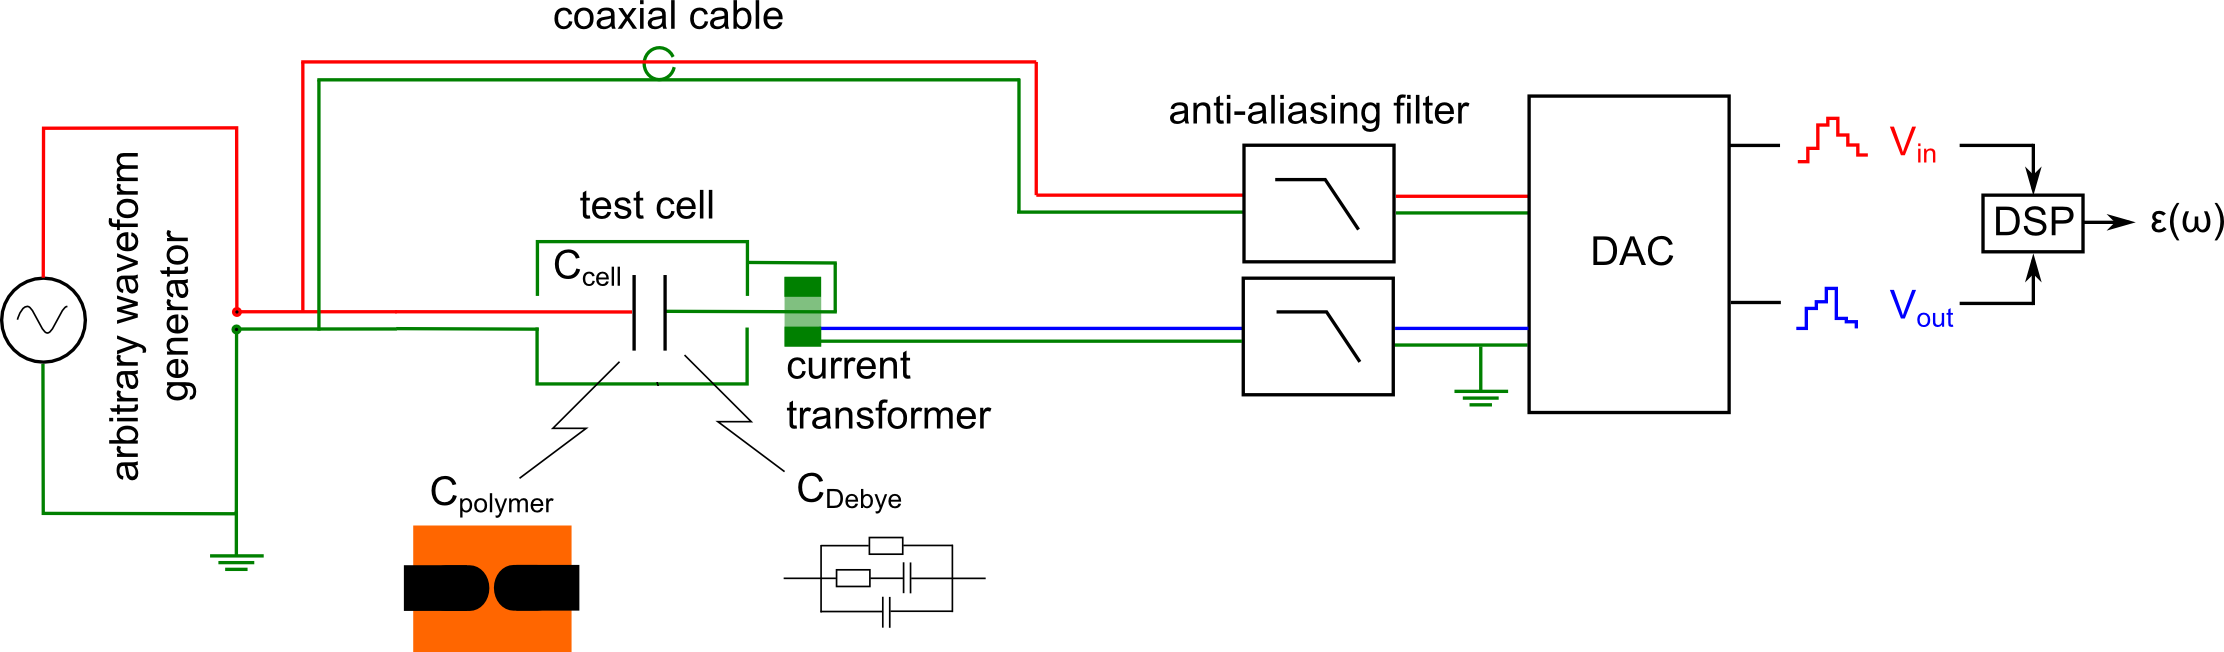
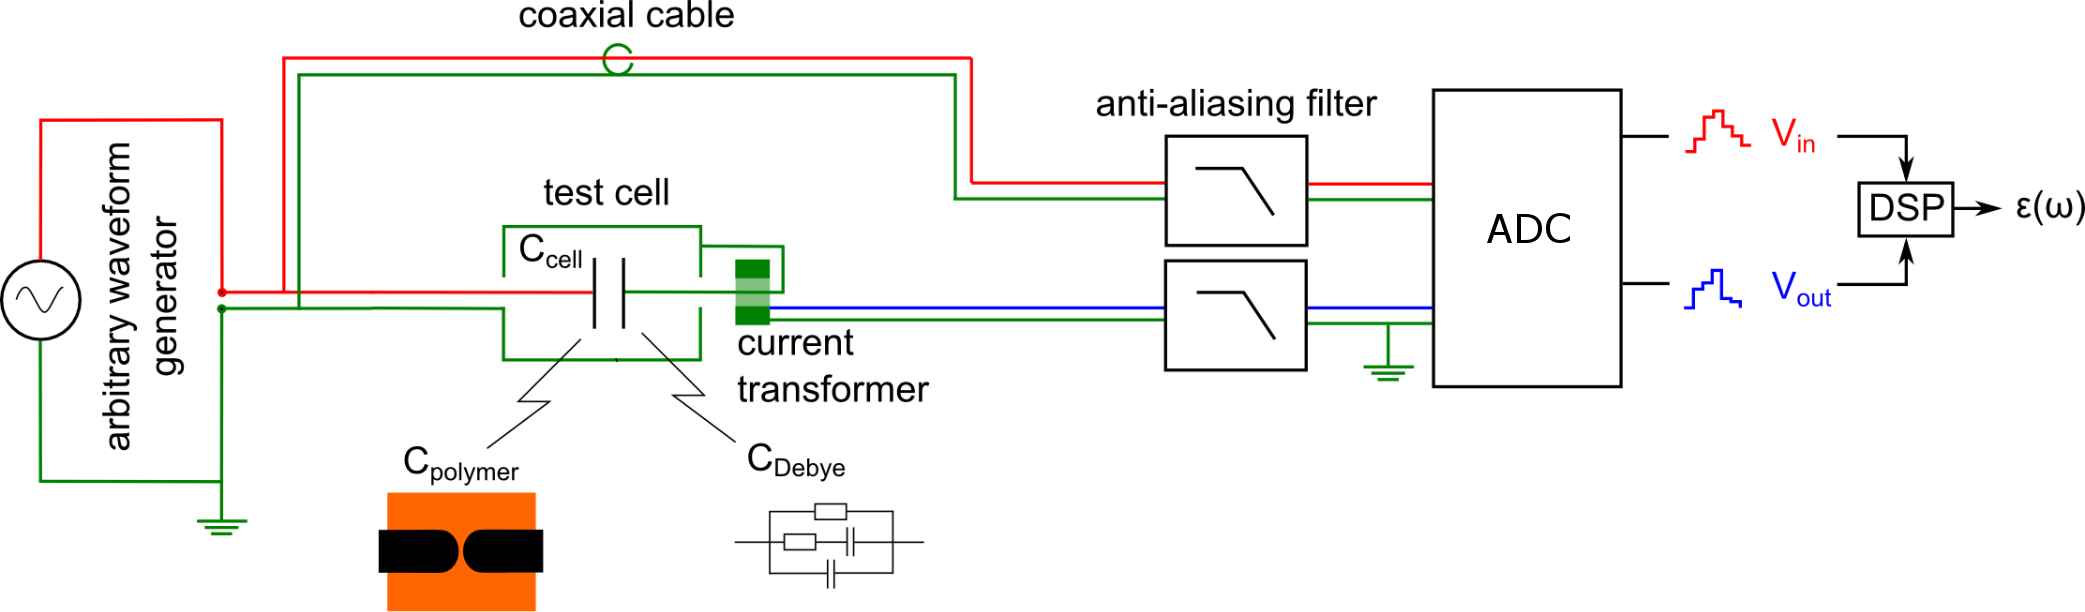
Many changes

diff --git a/Vorlage_HVL_Schriftfassung/text/methods.tex b/Vorlage_HVL_Schriftfassung/text/methods.tex
@@ -7,7 +7,7 @@ The setup is illustrated in figure \ref{sec.setup_amp_1}. A cell surrounds the  
 \begin{figure}[htbp]
 	\centering
 	\includegraphics[width=\textwidth]{figures/Method/setup/setup_amplifier.png}		
-	\caption[Kurze Abbildungsbeschreibung]{Setup for measurements with sample and DLPCA. \protect\footnotemark} 
+	\caption[Kurze Abbildungsbeschreibung]{Setup for measurements with sample and DLPCA.The setup is used to determine the capacitance of the specimen \protect\footnotemark} 
 	\label{sec.setup_amp_1}
 \end{figure}
 
@@ -30,7 +30,7 @@ re-inserted 25 individual measurements were automatically carried out amounting 
 
 \begin{figure}[h!tb]
 	\centering
-	\includegraphics[width=\textwidth]{figures/Method/Experimentaufbau/epoxy.jpg}		
+	\includegraphics[width=0.8\textwidth]{figures/Method/Experimentaufbau/epoxy.jpg}		
 	\caption[Kurze Abbildungsbeschreibung]{Sample of dielectric specimen on the holder} \label{fig.comsol_beispiel}
 
 \end{figure}
@@ -38,7 +38,7 @@ re-inserted 25 individual measurements were automatically carried out amounting 
 
 \subsection{Simulation of vacuum capacitance} 
 \label{sec.sim_vac_comsol}
-As mentioned in the chapters before the vacuum capacitance cannot the calculated directly because of the complexity of the geometry. COMSOL is a simulation software that is suitable for a numerical estimation of permittivities or capacitances. The dependency of the vacuum capacity $C_0$ on the electrode distance d has to be simulated numerically both for the high-voltage setup and for the low-voltage setup. Although all measurements and the corresponding calculations in section \ref{sec:general_approach} can be carried out in the low-voltage setup it is handy to be able to do these calculations in the high-voltage setup as well. 
+As mentioned in the chapters before the vacuum capacitance cannot the calculated directly because of the complexity of the geometry. COMSOL is a simulation software tha solves the Maxwell equations numerically and thus, is suitable for a numerical estimation of permittivities or capacitances between arbitrarily shaped electrodes. The dependency of the vacuum capacity $C_0$ on the electrode distance d has to be simulated numerically both for the high-voltage setup and for the low-voltage setup. Although all measurements and the corresponding calculations in section \ref{sec:general_approach} can be carried out in the low-voltage setup it is useful to be able to do these calculations in the high-voltage setup as well. 
 
 
 \begin{figure}[htbp]
@@ -53,7 +53,7 @@ Figure \ref{fig.comsol_beispiel} shows the simulated electrical field distributi
 \begin{figure}[htbp]
 	\centering
 	\includegraphics[scale=0.3]{figures/Method/Part1_d_C0/conic.png}		
-	\caption[Kurze Abbildungsbeschreibung]{E-Field simulation of the low-voltage test cell with conically shaped electrodes (0.5 mm electrode distance)} \label{fig.comsol_conic}
+	\caption[Kurze Abbildungsbeschreibung]{E-Field simulation of the low-voltage test cell with conically shaped electrodes (0.5 mm electrode distance) at } \label{fig.comsol_conic}
 
 \end{figure}
 
@@ -70,9 +70,9 @@ where D is the ratio of electrode distance over sphere diameter, i.e. $ D=\frac{
 \end{figure}
 
 
- There are several systematic errors that influence the vacuum capacitance simulation. The inclined line on the right-hand side shows the air gap that is caused during the production process. This air gap between the wall of the low-voltage setup and the specimen causes an additional inhomogeneity. It is unavoidable in order to be able to remove the specimen from the pouring setup. This air gap should theoretically be 0.5 mm, but in practice it is expected to vary between 0 mm and 1 mm for the worst-case. The lookup table of d based on $C_0$ is based on an air gap of 0.5 mm, therefore the deviation from this value has to be investigated numerically.
+ There are several systematic errors that influence the vacuum capacitance simulation. The inclined line on the right-hand side shows the air gap that is caused during the production process. This air gap between the wall of the low-voltage setup and the specimen causes an additional inhomogeneity. It is unavoidable in order to be able to remove the specimen from the mold. This air gap is 0.5 mm. Deviations from this value (0 mm to 1 mm) were investigated with COMSOL as well. The lookup table of d based on $C_0$ is based on an air gap of 0.5 mm, therefore the deviation from this value has to be investigated numerically.
  
-Another systematic error is the deviation of the height of the specimen. During  the pouring process the height of the specimen cannot be fixed precisely. The maximum deviation is expected to be $\pm$ 0.5 mm. This deviation might occur during the production process of each new specimen. Thus, if the electrode distance of a specimen should be estimated by the method described these deviations can result in an error. 
+A stochastic error is the deviation of the height of the specimen. During  the molding process the height of the specimen cannot be fixed precisely. The maximum deviation is expected to be $\pm$ 0.5 mm. This deviation might occur during the production process of each new specimen. Thus, if the electrode distance of a specimen should be estimated by the method described these deviations can result in an error. 
  \begin{figure}[htbp]
 	\centering
 	\includegraphics[width=\textwidth]{figures/Method/Part1_d_C0/cell_colour.png}		
@@ -82,11 +82,10 @@ Another systematic error is the deviation of the height of the specimen. During 
 
 \section{Part 2:  Suitability of current transformer for dielectric spectroscopy}
 \subsection{The setup}
-There are two general setups. One is the high-voltage setup and one the low voltage-setup. For testing the suitability of the current transformer the low voltage setup is sufficient except for the clamping test described in section \ref{clamping}. 
+There are two general setups. One is the high-voltage setup and one the low voltage-setup. For testing the suitability of the current transformer the low voltage setup is sufficient except for the clamping test described in section \ref{clamping}. There is always a reference measurement with only $C_0$. The division by a reference measurement makes sure that systematic errors in the setup, e.g. the phase shift in the current transformer, are cancelled out. 
 
-The following graph \ref{sec.setup_amplifier} illustrates the setup for measurements without a current transformer. The DLPCA-200 is a variable gain low noise current amplifier that has a transimpedance gain between $10^3$ and $10^{11} V/A$. A MATLAB script automatically adapts its gain to a value that is suitable for the input voltage range of the ADC which is $\pm 10V$. With the values of the ADC, i.e. the input voltage of the waveform generator and the output of the BW-filter, the $\varepsilon$ and the tan($\delta$) can be calculated. 
+The following figure \ref{sec.setup_amplifier} illustrates the setup for measurements without a current transformer. The DLPCA-200 is a variable gain low noise current amplifier that has a transimpedance gain between $10^3$ and $10^{11} V/A$. A MATLAB script automatically adapts its gain to a value that is suitable for the input voltage range of the ADC which is $\pm 10V$. With the values of the ADC, i.e. the input voltage of the waveform generator and the output of the BW-filter, the $\varepsilon$ and the tan($\delta$) can be calculated. 
 
-!!! Achtung noch Fehler in Graph, es ist ADC converter!!!
 \begin{figure}[htbp]
 	\centering
 	\includegraphics[width=\textwidth]{figures/Method/setup/setup_DLPCA.eps}		
@@ -102,7 +101,7 @@ Afterwards, the DLPCA is replaced with a current transformer.
 \begin{figure}[htbp]
 	\centering
 	\includegraphics[width=\textwidth]{figures/Method/setup/setup_CTonly}		
-	\caption[Kurze Abbildungsbeschreibung]{Setup for measurements with Current Transformer only \protect\footnotemark}
+	\caption[Kurze Abbildungsbeschreibung]{Setup for measurements with current transformer only \protect\footnotemark}
 	\label{sec.setup}
 
 \end{figure}
@@ -112,13 +111,13 @@ Afterwards, the DLPCA is replaced with a current transformer.
 
 In order to emulate different dielectrics with their own respective dielectric loss tangent, different combinations of circuit elements can be used.
 Each different circuit accounts for a frequency spectrum of another loss tangent with respect to frequency. With the objective to assess the performance of the current transformer, reasonably high maximal values for the $tan\left(\delta\right)$ were assumed (i.e. 0.05 to 0.2) since a lower loss tangent
-would require a higher resolution on the part of the current measurement. The vacuum capacitance was chosen to be about 1000 times larger than
+would require a higher resolution on the part of the current measurement and thus, make it more difficult to assess the performance of the current transformer. The vacuum capacitance was chosen to be about 1000 times larger than
 the the one of the specimen for the purpose of generating the same magnitude of currents as in the high-voltage setup.
 
 
 In order to get a theoretical maximum tan($\delta$) of 0.0178 the parts shown in figure \ref{fig.debye-modell} are used. 
 \begin{figure}[h!tb]
-	\centerline{\includegraphics[scale=0.7]{figures/Method/debye-modell.jpg}}	
+	\centerline{\includegraphics[width=0.5\textwidth]{figures/Method/debye-modell.jpg}}	
 	\caption{Debye model for max($tan(\delta)$)=0.0178 }	
 	\label{fig.debye-modellsch}
 \end{figure}
@@ -141,7 +140,7 @@ set to 5V. Both the rise and
 the fall time are both set to 1 $\mu s$. The voltage signal is created
 by the function generator (model Agilent 33210) in \ref{fig.presentation}
 \newline
-In order to determine the current through the debye network, the harmonic decomposition of
+In order to determine the current through the Debye network, the harmonic decomposition of
 the trapezoidal pulse train in the theory section was used. For each harmonic, the specific
 impedance of the debye network was calculated and the harmonic components for the current were found by deviding voltage component by its assigned impedance.
 
@@ -162,7 +161,7 @@ Figures \ref{fig.beforeandafter} and \ref{fig.fourierla} shows the voltage signa
 \end{figure}
 
 \begin{figure}[h!tb]
-\centerline{\includegraphics[width=0.8\textwidth]{figures/Method/signal_simulation/fourierla.eps}}
+\centerline{\includegraphics[width=\textwidth]{figures/Method/signal_simulation/fourierla.eps}}
 \caption{Fourier coefficients of both signals}
 \label{fig.fourierla}
 \end{figure}
@@ -173,18 +172,13 @@ filtered by the low-pass filter in front of the positive input of the operationa
 
 
 \begin{figure}[h!tb]
-\centerline{\includegraphics[width=0.8\textwidth]{figures/Method/signal_simulation/integrated.eps}}
+\centerline{\includegraphics[width=\textwidth]{figures/Method/signal_simulation/integrated.eps}}
 \caption{Signals before and after integrator}
 \label{fig.integrator}
 \end{figure}
 
 In order to generate these signals, a simulation in Simulink was carried out using the components of the integrator circuit in \ref{fig.circuit}
 
-\begin{figure}[h!tb]
-\centerline{\includegraphics[width=0.8\textwidth]{figures/Method/signal_simulation/simulink.eps}}
-\caption{Simulink assembly for integrator}
-\label{fig.simulink}
-\end{figure}
 
 Finally, at the end of the setup a butterworth low-pass filter of $8^{th}$ order with an adjustable cutoff frequency
 was installed. Its transfer function was applied to the FFT of the integrated voltage signal and the resulting 
@@ -192,19 +186,19 @@ signal is depicted in \ref{fig.finalvolt}
 
 
 \begin{figure}[h!tb]
-\centerline{\includegraphics[width=0.8\textwidth]{figures/Method/signal_simulation/finalvolt.eps}}
+\centerline{\includegraphics[width=\textwidth]{figures/Method/signal_simulation/finalvolt.eps}}
 \caption{Final voltage signal to be measured by ADC}
 \label{fig.finalvolt}
 \end{figure}
 
 
 \subsection{Design of a holder for the Debye Equivalent Circuit}
-For a lossy medium the Debye Network consists at least of a vacuum capacitance $C_0$ and the term for the charging of the additional capacitance. The DC resistance has a very high value and might therefore be left out, i.e. $R_{\infty}={\infty}$. Thus, it is reasonable to design a holder for the network that can hold three strands with two components each. Moreover, it has to fit into the low-voltage and high-voltage test cell, what specified the dimensions of the holder.  
+For a lossy medium the Debye Network consists at least of a vacuum capacitance $C_0$ and the term for the charging of the additional capacitance. The DC resistance has a relatively high value and might therefore be left out, i.e. $R_{\infty}={\infty}$. Thus, it is reasonable to design a holder for the network that can hold three strands with two components each. Moreover, it has to fit into the low-voltage and high-voltage test cell, what specified the dimensions of the holder.  
 Figure \ref{fig.CADgraph} shows the created holder which has a drawing that is depicted in figure \ref{fig.CADdrawing}.
 
 \begin{figure}[h!tb]
 \includegraphics[width=\textwidth]{figures/Method/CAD_MODEL/Gesamtanordnung.jpg}
-\caption{CAD graph for the holder of the debye network. Created with SolidWorks Invetor}
+\caption{CAD representation for the holder of the debye network. Created with SolidWorks Invetor}
 \label{fig.CADgraph}
 \end{figure}
 
@@ -215,7 +209,7 @@ Figure \ref{fig.CADgraph} shows the created holder which has a drawing that is d
 
 \subsection{Measuring of $\varepsilon_{\textrm{eff}}$ and tan($\delta_{\textrm{eff}}$) for the Debye model (dielectric spectroscopy)}
 \label{spectroscopy}
-The aim was to create a current through the Debye sample that is similar in shape and amplitude to the one expteced in the high-voltage setup. In order to have a comparable current for a voltage that is $\frac{1}{1000}$ of the high-voltage setup a capacitance $C_0$ for the Debye is selected 1000 times higher than the Capacitance of the samples. As the sample has a capacitance of approx. 3.5 pF its equivalent $C_0$ in the Debye model is 3.3 nF.
+The aim was to create a current through the Debye sample that is similar in shape and amplitude to the one expected in the high-voltage setup. In order to have a comparable current for a voltage that is $\frac{1}{1000}$ of the high-voltage setup a capacitance $C_0$ for the Debye is selected 1000 times higher than the Capacitance of the samples. As the sample has a capacitance of approx. 3.5 pF its equivalent $C_0$ in the Debye model is 3.3 nF.
 A number of curves for the theoretical loss tangent, as well as their marked maximum frequency can be found in \ref{fig.debye-modell}.
 
 The dielectric spectroscopy was conducted in the low-voltage setup and \ref{fig.presentation} can be used as a reference.
@@ -248,7 +242,7 @@ the dielectric component, i.e. $R_i$ and $C_i$ are removed from the sample and $
  \centering
 
  \includegraphics[width=0.5\textwidth]{figures/Method/Experimentaufbau/debyesample}
- \caption[Kurze Abbildungsbeschreibung]{Debye holder with components inserted}
+ \caption[Kurze Abbildungsbeschreibung]{Debye holder with components of Debye model inserted}
 
  
  
@@ -274,11 +268,11 @@ A second reason to make use of an integrator is due to the fact that it adds an 
 
 \subsection{Design of the integrator}
 \subsubsection{Functionality}
-The integrator should have two functions. On the hand side it should integrate the signal on the other hand it should amplify the signal by a factor of 1000. This is due to the fact that small currents ($\sim$mA) should be measured. With a CT-sensitivity of $1V/A$ an amplification of 1000 is reasonable to use the range of measurable inputs of $\pm$ 10 V. These requirements can be achieved by a non-inverting integrator, which is shown in figure  \ref{fig.circuit}. 
-
+The integrator should have two functions. On the hand side it should integrate the signal on the other hand it should amplify the signal by a factor of 1000. This is due to the fact that small currents ($\sim$mA) should be measured. With a CT-sensitivity of $1V/A$ an amplification of 1000 is reasonable to use the range of measurable inputs of $\pm$ 10 V. \footnotemark These requirements can be achieved by a non-inverting integrator, which is shown in figure  \ref{fig.circuit}. 
+\footnotetext{Data sheet of the used current transformer: Pearson Model 2877} 
 \begin{figure}[h!tb]
 \includegraphics[width=0.99\textwidth]{figures/Method/integrator/circuit.png}
-    \caption{Schematic integrator circuit}
+    \caption{Schematic non-inverting integrator circuit}
     \label{fig.circuit}
 \end{figure}	
 

diff --git a/Vorlage_HVL_Schriftfassung/text/intro.tex b/Vorlage_HVL_Schriftfassung/text/intro.tex
@@ -3,14 +3,13 @@
 Power electronics systems, especially converters, lead to a more complex electrical field stress in insulation material of energy transmission systems as it introduces pulses (>1 kV) with high slew rates (>$10 \frac{kV}{\mu s}$) and high repetition frequencies (> 1 kHz) superimposed on low frequencies (50 Hz) or DC. The latter can cause enhanced partial discharges (PD) in the insulation system, i.e. a breakdown of a part of the insulation system. \cite{TransformerEngineering}. However, there are already effects below partial discharge inception that are not well understood, yet. They do as well result in an accelerated aging of the insulation due to the sustained application of the converter pulses. 
 \newline
 
-
 \begin{figure}[!ht]
   \begin{minipage}{0.5\textwidth}
   
 
   
   \centerline{\includegraphics[height=0.2\textheight]{figures/intro/cad_epoxy}}
-\caption{CAD model of epoxy specimen used for measurements\protect\footnotemark}
+\caption{CAD model of epoxy specimen used for measurements}
 	\label{fig.specimen}
 	
 	  \end{minipage}
@@ -22,10 +21,10 @@ Power electronics systems, especially converters, lead to a more complex electri
 	  
 	   \end{minipage}
 \end{figure}
-
+\footnotetext{{Both figures provided by Raphael F\"arber}}
 In a new approach, a quantification of the pre-breakdown modification within the insulation material should be obtained with the use of an online monitoring of the dielectric permittivity for several harmonics of the applied pulse spectrum \cite{FaerberMVISS}.
 The first part of this semester project is aimed at getting the dielectric permittivity by once measuring the capacity of the specimen shown in figure \ref{fig.specimen} in conjuction with numerical field simulations. When using a specimen after manufacturing it is assumed that it's dielectric permittivity is always the same. In order to be able to determine the distance of the two electrodes a reference measurement of the actual distance and the permittivity for two samples is made and a look-up table containing the electrode distance for different vacuum capacities is created. 
 
 The second part of the project is the investigation of the suitability of current transformers in dielectric spectroscopy. With regard to the small capacitive current through the sample, it is the aim to prove or disprove that a current transformer does not deteriorate the signal in a way that makes dielectric spectroscopy is impossible. 
 
-\footnotetext{{CAD provided by Raphael F\"arber}}
+

diff --git a/Vorlage_HVL_Schriftfassung/text/theory.tex b/Vorlage_HVL_Schriftfassung/text/theory.tex
@@ -30,17 +30,17 @@ The estimation of the dielectric permittivity of the epoxy in mixed epoxy-air co
 \subsection{Debye Relaxation and Debye model}
 
 
-<<<<<<< HEAD
+
 \subsection{Debye model}
 The polarization effects in a dielectric material can be characterized by the (complex) relative permittivity (and the resuling dielectric loss factor). Both are frequency-dependent quantities. 
-For linear materials the polarization can be described by a network model. The Debye-ansatz assumes that the rate of change $ \frac{dP_i}{dt}$ is proportional to the difference between the remaining polarization $P_i(t)$ \nomenclature {$P_i$}{Polarization of material} and the polarization at infinity $P_i(\infty$). This results in an exponential relaxation of the polarization function that tends towards $P_i(\infty)$. In an alternating electric field this leads to a phase shift between the electric field $E(t)$ and the 
+For linear materials the polarization can be described by a network model. The Debye-ansatz assumes that the rate of change $ \frac{dP_i}{dt}$ is proportional to the difference between the remaining polarization $P_i(t)$  and the polarization at infinity $P_i(\infty$). This results in an exponential relaxation of the polarization function that tends towards $P_i(\infty)$. In an alternating electric field this leads to a phase shift between the electric field $E(t)$ and the 
 electric displacement field $D(t)$.
 \newline
 Formally the lagging of the $\underline{D}$ field can be represented by a decomposition in two phasors.
 \begin{equation}
  \underline{D}=\epsilon_{0}\epsilon_{r}'\underline{E}-j\epsilon_{0}\epsilon_{r}''\underline{E}
 \end{equation}
-
+\nomenclature{$P_i$}{Polarization of material}
 
 This exponential decay can be modeled with a time constant of a resistor and a capacitor in series ($\tau=R_i \cdot C_i$). Therefore, an emulated dielectric comprises a vacuum capacitance, an additional capacitance $C_i$ and a resistor $R_i$ in series and a resistor $R_{\infty}$ for a stationary conduction current. 
 
@@ -50,7 +50,7 @@ The aim of this section is to derive the formula for the maximum tan($\delta$) o
 \begin{equation}
 \varepsilon_{\textrm{eff}} (\omega) = \frac{C^*(\omega)}{C_0}
 \end{equation}
-
+\nomenclature{$\omega$}{angular velocity}
 In electrical engineering, it is customary to define the  complex relative permittivity $\varepsilon$ in the following way: 
 \begin{equation}
 \varepsilon  = \varepsilon_r-j \cdot \varepsilon_r''

diff --git a/Vorlage_HVL_Schriftfassung/text/results.tex b/Vorlage_HVL_Schriftfassung/text/results.tex
@@ -338,7 +338,7 @@ most probably prevent the integrator from reducing the noise figure more conside
 \section{Current transformer and protective clamping} 
 As it was mentioned in the previous chapters, the main advantage to use a current transformer for
 dielectric spectroscopy is the fact that the measurement equipment is galvanicaly insulated from the high-voltage supply and its
-coupling in case of object breakdown. The analysis of how the current transformer behaves in this case is being conducted in this section.
+coupling in case of object breakdown. The analysis of how the current transformer behaves in this case is being examined in this section.
 The peak of the pulses that simulate the breakdown current from the capacitor bank were set to anywhere between 25A and 100A and its duration was about 7 $\mu$s.
 The first two experiments were conducted without the protective TVS-Diodes that would limit the ouptut voltage.
 The blue curve represents the current through the transformer. The blue line shows how much voltage is applied to a 10 m$\Omega$ shunt resistor and from this information the current can
@@ -365,7 +365,7 @@ this way.
 \end{figure}
 
 Judging from the graphs \ref{fig.26Anodiode} and \ref{fig.100Anodiode}, the voltage generated by the current transformer aligns almost
-perfectly with the current from the capacitor bank.
+perfectly with the current from the capacitor bank (This is a shunt resistor measurement).
 
 \begin{figure}[!ht]
 	\centering
